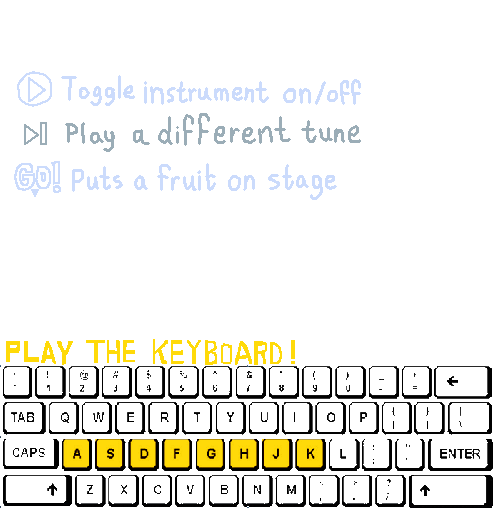
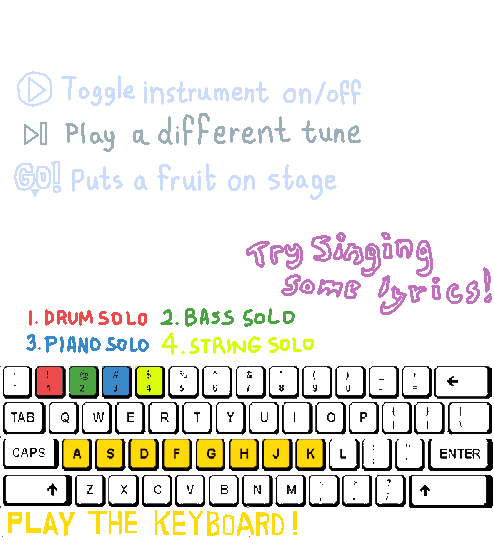
P2: added some shortcuts to play solo

Changed region(s): [[0.0, 0.4118, 1.0, 1.0], [0.0304, 0.1176, 0.7287, 0.3824]]

diff --git a/projects/project2-fruitjam-prototype/js/playerInputs.js b/projects/project2-fruitjam-prototype/js/playerInputs.js
@@ -9,7 +9,7 @@ function setupSynth(){
 
 function keyPressed(){
 
-//A - K on keyboard
+  //A - K on keyboard
   if(keyCode === 65){
     playMusic(`c4`);
   }else if (keyCode === 83){
@@ -33,19 +33,24 @@ function keyPressed(){
 
 //keyboard shortcuts
 function shortCuts(){
-  turnAllOff();
+  
   if (keyCode === 49){
+    turnAllOff();
     drum.isPlaying = true;
-    console.log(`aaa`);
+    playAll();
   }else if (keyCode ===50){
+    turnAllOff();
     bass.isPlaying = true;
+    playAll();
   }else if (keyCode ===51){
+    turnAllOff();
     piano.isPlaying = true;
+    playAll();
   }else if (keyCode ===52){
+    turnAllOff();
     string.isPlaying = true;
+    playAll();
   }
-  console.log(`aaa`);
-  playAll();
 }
 
 function playMusic(note){

diff --git a/projects/project2-fruitjam-prototype/js/script.js b/projects/project2-fruitjam-prototype/js/script.js
@@ -47,25 +47,8 @@ function draw() {
   displayConfetti();
 
   displayLyrics();
-
 }
 
-//keyboard shortcuts
-function shortCuts(){
-  turnAllOff();
-  if (keyCode === 49){
-    drum.isPlaying = true;
-    console.log(`aaa`);
-  }else if (keyCode ===50){
-    bass.isPlaying = true;
-  }else if (keyCode ===51){
-    piano.isPlaying = true;
-  }else if (keyCode ===52){
-    string.isPlaying = true;
-  }
-  console.log(`aaa`);
-  playAll();
-}
 
 //stop all loops
 function stopAll() {
